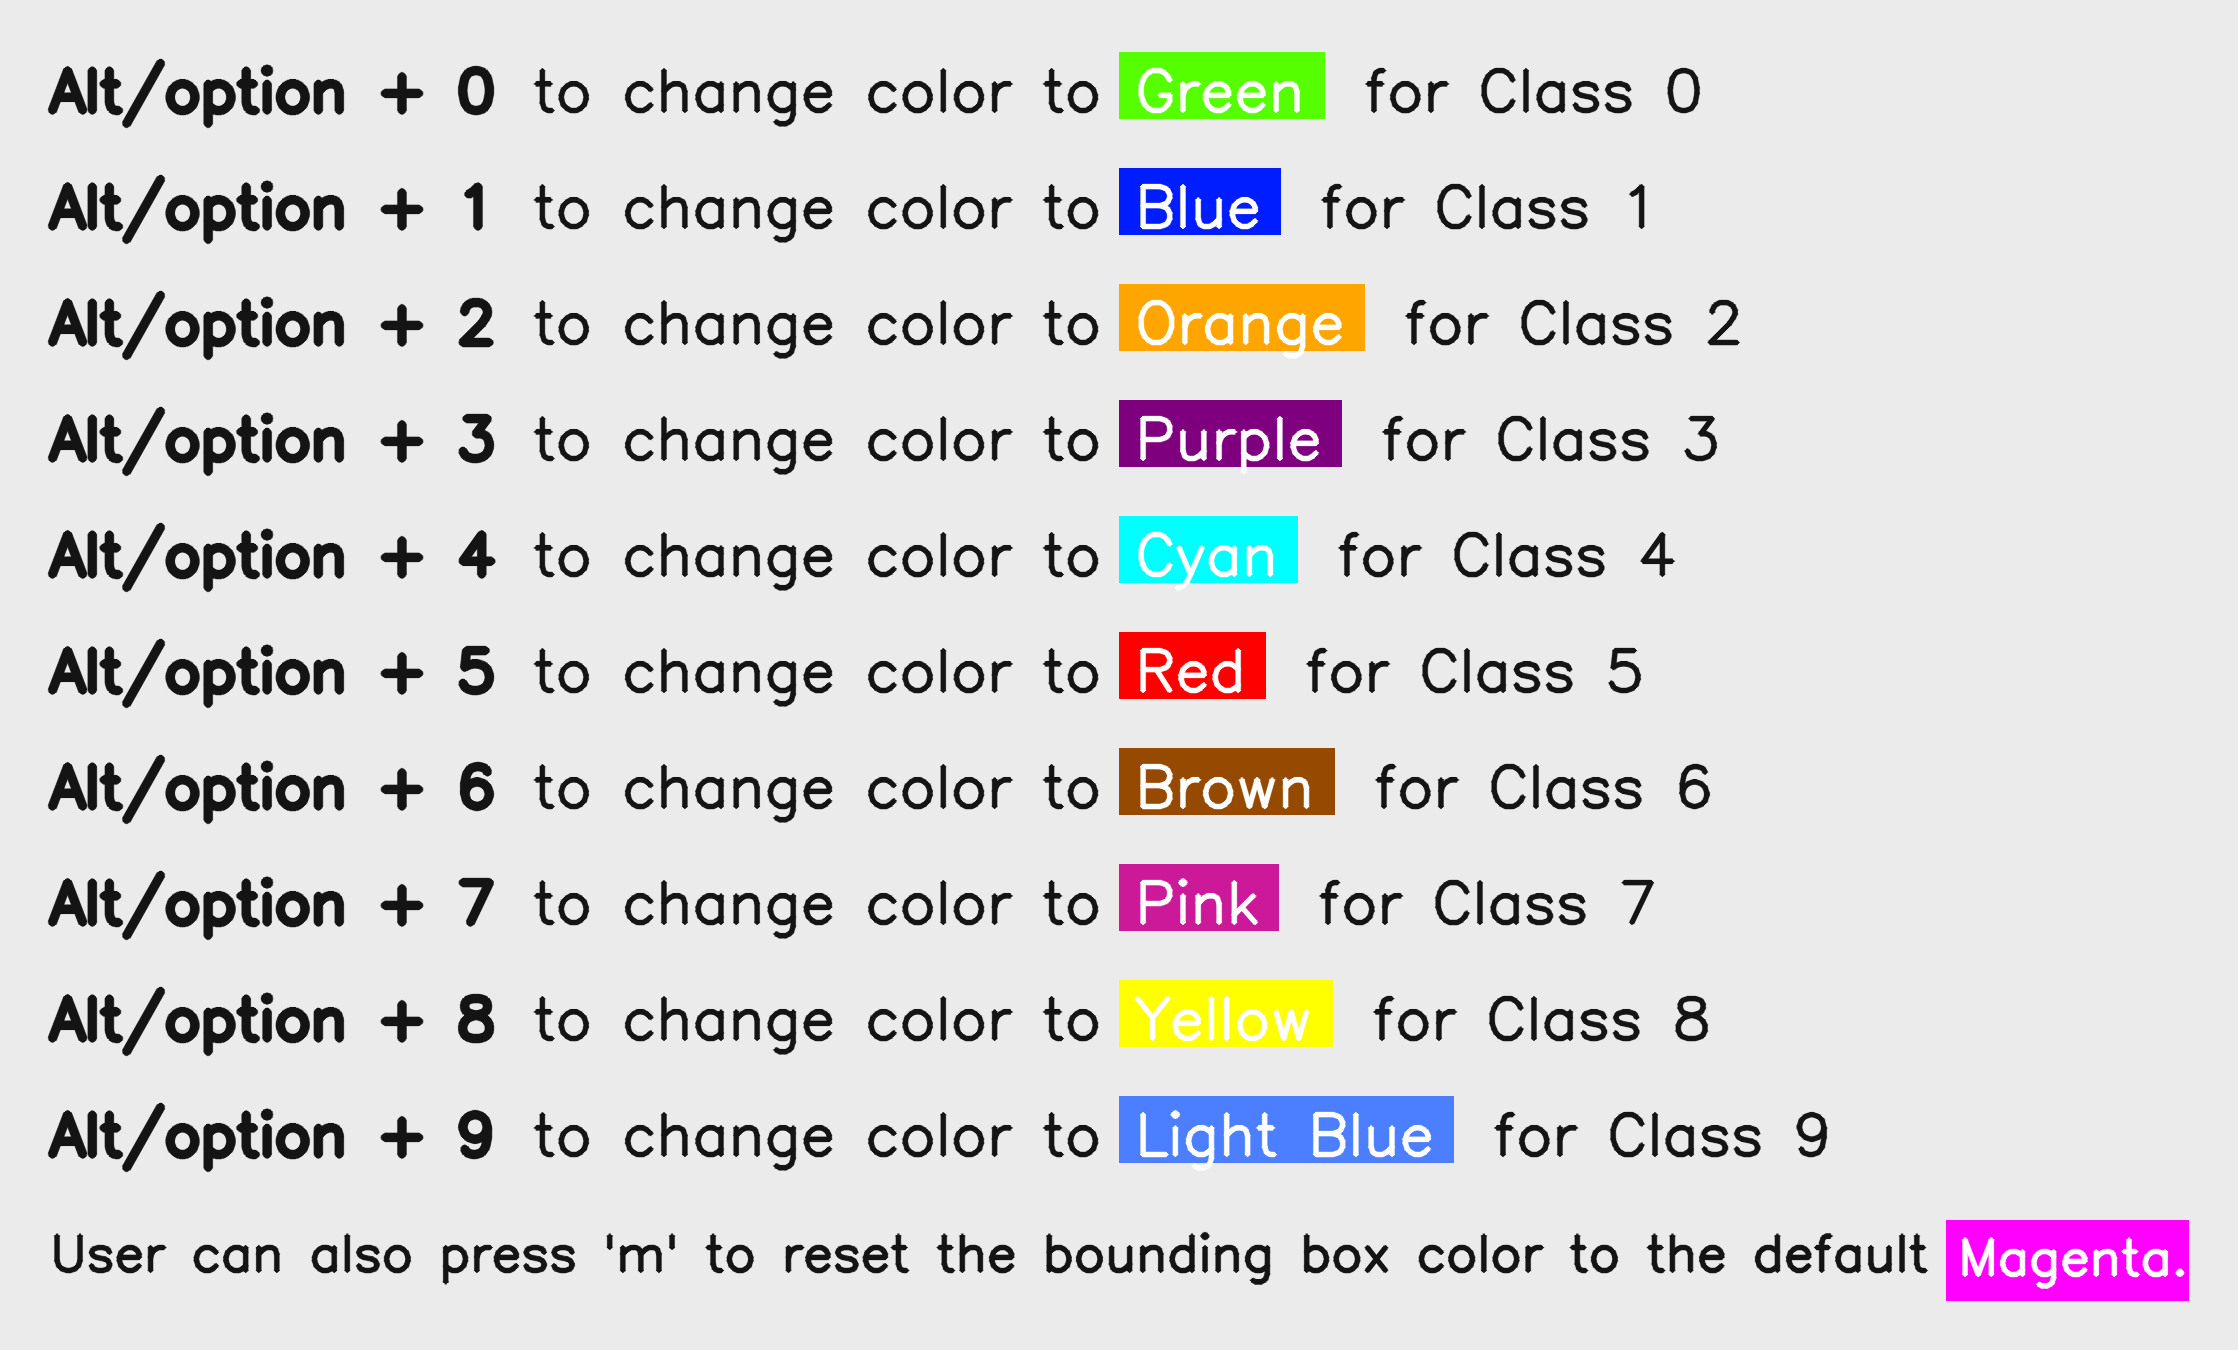
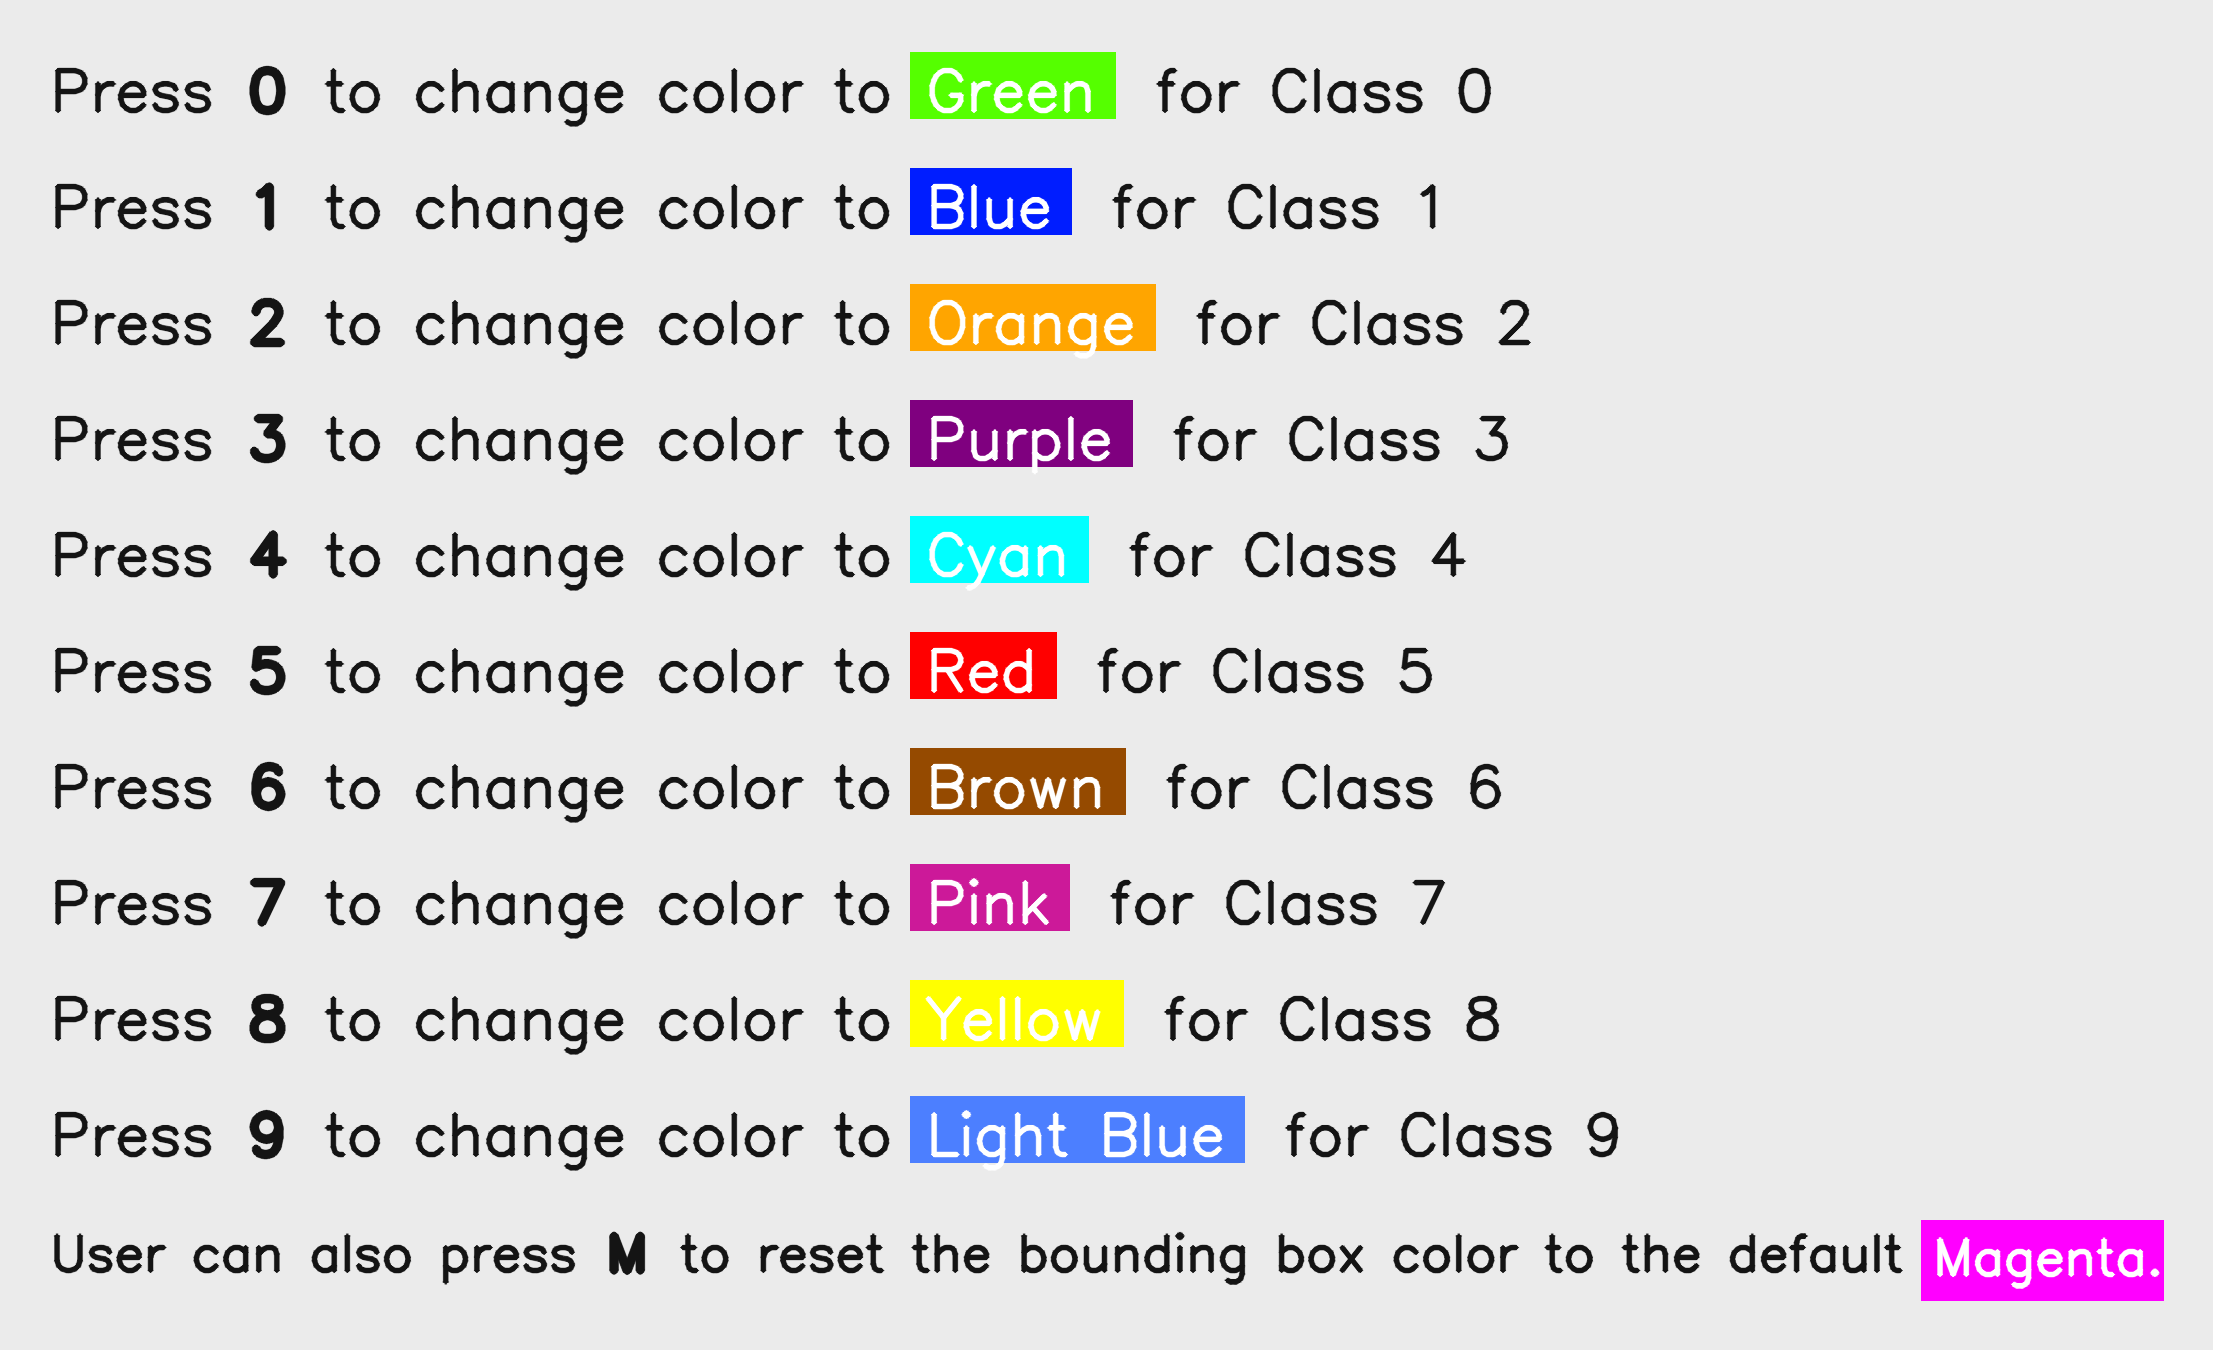
key bindings update to the numbers

diff --git a/napari_organoid_counter/_widget.py b/napari_organoid_counter/_widget.py
@@ -12,6 +12,7 @@ from datetime import datetime
 import napari
 from napari import layers
 from napari.utils.notifications import show_info, show_error, show_warning
+from napari.utils.action_manager import action_manager
 
 import numpy as np
 
@@ -286,14 +287,21 @@ class OrganoidCounterWidget(QWidget):
 
         # Unbind all potential class keys (CTRL+0 to CTRL+9)
         for class_num in range(10):
-            key = f'Alt-{class_num}'
+            key = f'{class_num}'
             if key in self.viewer.keymap:
                 self.viewer.keymap.pop(key) # Remove the key binding if it already exists
-
+            actions_to_remove = []
+            for action, shortcuts in action_manager._shortcuts.items():
+                for s in shortcuts:
+                    if key == str(s):
+                        actions_to_remove.append(action)
+            for action in actions_to_remove:
+                print(f"Removing action '{action}'.")
+                action_manager.unbind_shortcut(action) # Remove the action from the action manager if it exists
         # Bind all keys and validate them on press
         bound_keys = []
         for class_num in range(10):
-            key = f'Alt-{class_num}'
+            key = f'{class_num}'
             
             # Capture 'class_num' using a lambda default argument
             @self.viewer.bind_key(key, overwrite=True)